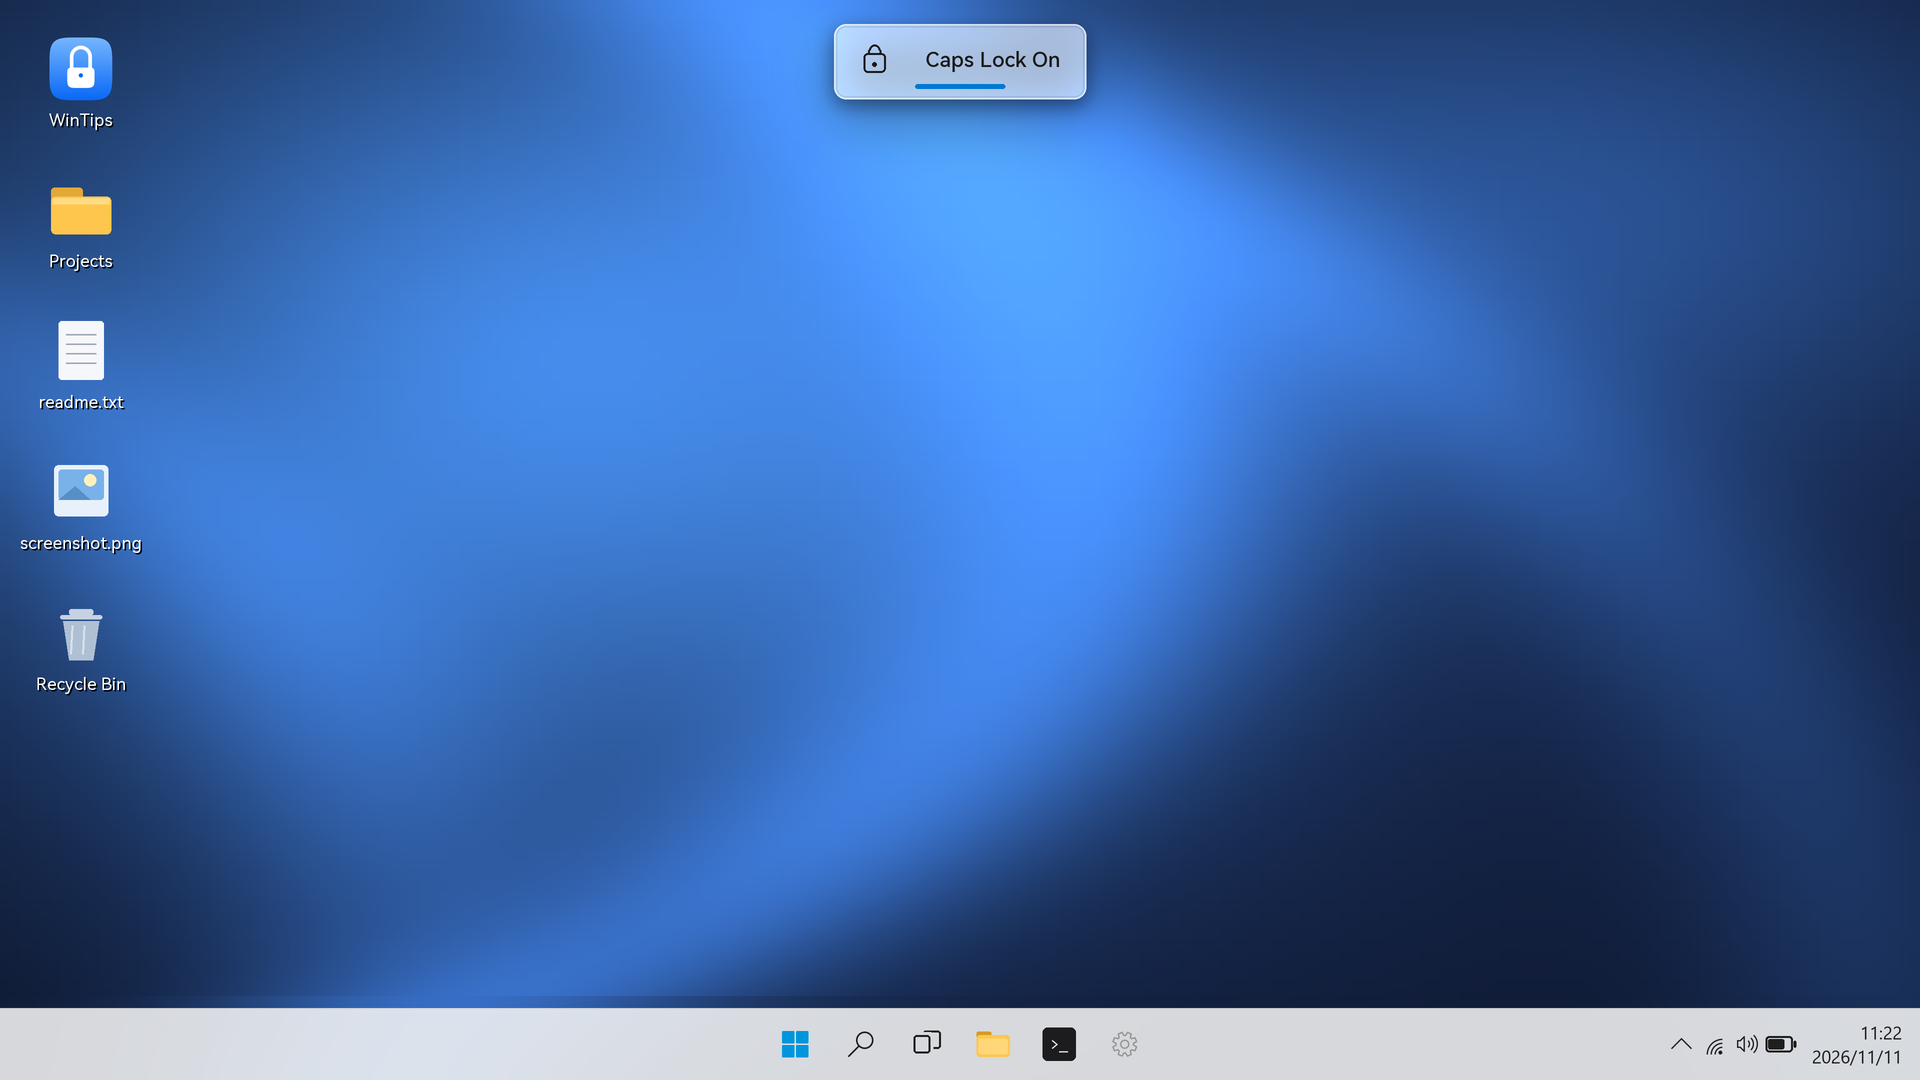
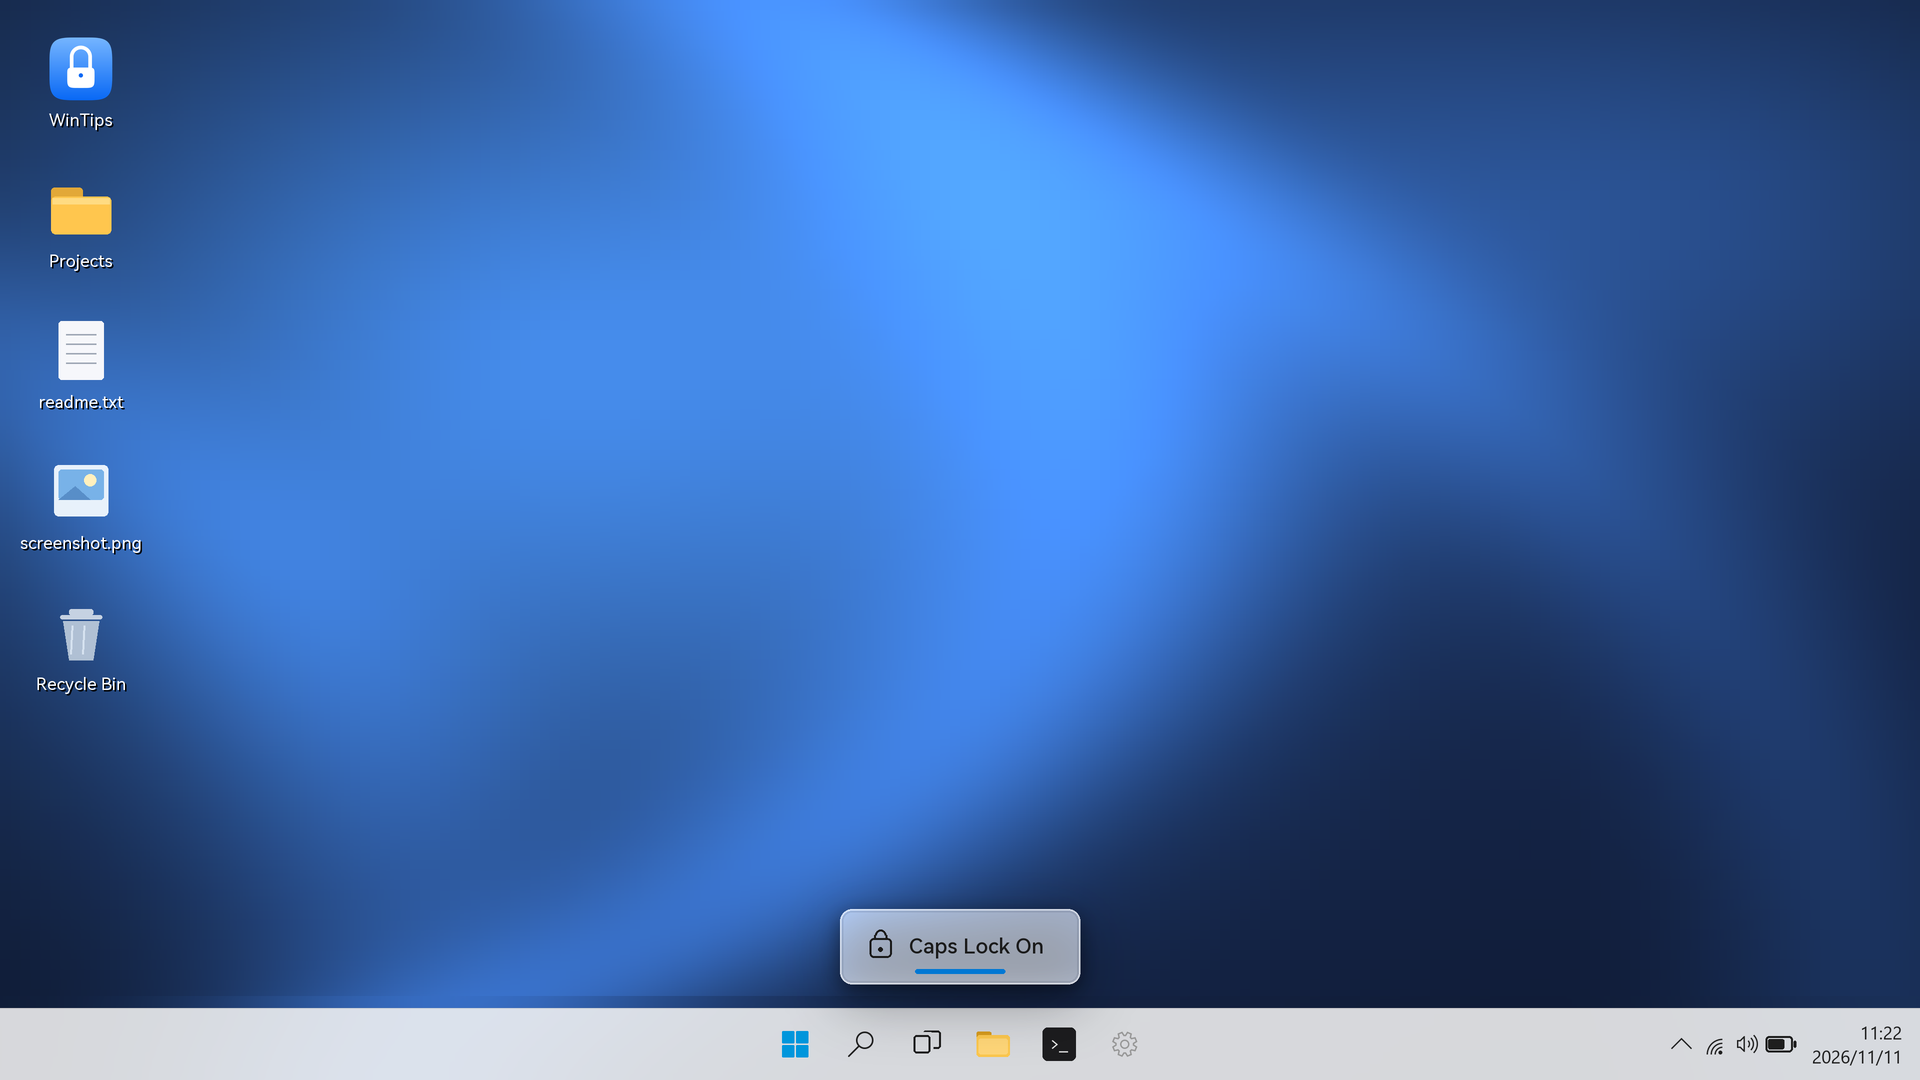
V0.53

Changed region(s): [[0.4062, 0.0, 0.5938, 0.1222], [0.4062, 0.825, 0.5625, 0.9472]]

diff --git a/promo/make_store_shots.py b/promo/make_store_shots.py
@@ -8,7 +8,7 @@
   · 浮窗       UI/OsdWindow.xaml            160x50dip，圆角 8，指示条 60x3，图标 22
   · 设置窗口   UI/SettingsWindow.xaml       800dip 宽，两栏卡片 348 / 18 / *
   · 开关/滑块  Resources/Styles.xaml        开关 40x20、滑块轨道 4、拇指 18
-  · 配色       Core/ThemeHelper.cs          卡片、描边、分隔线、强调色 #0067C0
+  · 配色       Core/ThemeHelper.cs          卡片、描边、分隔线、强调色（取系统强调色 #0078D4）
   · 文案       Core/Localization.cs         运行时解析，随应用一起更新
 
 输出：promo/store/*.png，1920x1080。文件名不带 -en 为中文版。
@@ -19,6 +19,7 @@
     python make_store_shots.py en lock    # 仅英文的锁定键那张
 """
 import io
+import math
 import os
 import re
 import sys
@@ -325,15 +326,36 @@ def check_layer(size_px, color):
     return lay
 
 
-def osd_width(text, fnt, d):
-    tw = d.textlength(text, font=fnt) / P(1)
-    return max(160.0, tw + 78)
+def osd_metrics(text, count, d):
+    """复刻 OsdWindow.UpdateSize() 的宽度与文本位置
+
+    宽度：16 + 图标22 + 18 + 文字 + 12（+徽章），不足 160 时按 160 保底。
+    文本：XAML 是 HorizontalAlignment=Center + Margin=18,0,0,2，居中于
+    ContentGrid（左 16 / 右 12）减去左 margin 后的槽，等效文字中心 (w+22)/2。
+    带计数徽章时代码改用 Left + 算出的 Margin.Left，这里照抄，避免压住徽章。
+    """
+    f_txt = ui(14, "med")
+    f_cnt = ui(12.5, "bld")
+    tw = d.textlength(text, font=f_txt) / P(1)
+    cw = d.textlength("×%d" % count, font=f_cnt) / P(1) if count else 0.0
+    extra = (cw + 22) if count else 0.0
+    w = max(160.0, float(math.ceil(16 + 22 + 18 + tw + 12 + extra)))
+
+    if count:
+        pill = cw + 14
+        badge_start = w - 16 - 8 - pill
+        mid = (22 + badge_start) / 2
+        left = 16 + max(30.0, mid - tw / 2)
+    else:
+        left = 16 + 18 + (w - 16 - 12 - 18 - tw) / 2
+    return w, tw, cw, left + tw / 2, left
 
 
-def draw_osd(img, cx, top, dark, text, kind="lock", on=True, count=None):
+def draw_osd(img, cx, top, dark, text, kind="lock", on=True, count=None, bar=True):
+    """bar=False 用于剪贴板提示：ApplyMode() 里 lockUi 才显示 LockIndicator"""
     f_txt = ui(14, "med")
     probe = ImageDraw.Draw(img)
-    w = osd_width(text, f_txt, probe)
+    w, tw, cw, tx_local, _left = osd_metrics(text, count, probe)
     h = 50.0
     x0, y0 = cx - w / 2, top
     r = 8.0
@@ -373,31 +395,30 @@ def draw_osd(img, cx, top, dark, text, kind="lock", on=True, count=None):
         lay = check_layer(int(ic), col)
     img.paste(lay, (int(ix), int(iy)), lay)
 
-    # 文案：在图标右侧的剩余区域居中
-    area0 = x0 + 16 + 22 + 18
-    area1 = x0 + w - 12 - (26 if count else 0)
-    tx = (area0 + area1) / 2
-    d.text((P(tx), P(y0 + h / 2 - 1)), text, font=f_txt, fill=col, anchor="mm")
+    # 文案：水平按 (w+22)/2 居中；垂直对齐浮窗中线（底部指示条另占 7dip）
+    d.text((P(x0 + tx_local), P(y0 + 25)), text, font=f_txt, fill=col, anchor="mm")
 
     if count:
         f_cnt = ui(12.5, "bld")
-        cw = d.textlength("×%d" % count, font=f_cnt) / P(1) + 14
-        bh = 19.0
+        bw_ = cw + 14
+        bh = 20.0
         bx1 = x0 + w - 12
-        bx0 = bx1 - cw
-        by0 = y0 + (h - bh) / 2
-        d.rounded_rectangle([P(bx0), P(by0), P(bx1), P(by0 + bh)], radius=P(9.5),
+        bx0 = bx1 - bw_
+        # 剪贴板模式的内容区是 16,8,8,8，上下对称，徽章正对中线
+        by0 = y0 + 25 - bh / 2
+        d.rounded_rectangle([P(bx0), P(by0), P(bx1), P(by0 + bh)], radius=P(10),
                             fill=ACCENT + (255,))
         d.text((P((bx0 + bx1) / 2), P(by0 + bh / 2)), "×%d" % count, font=f_cnt,
                fill=(255, 255, 255, 255), anchor="mm")
 
-    # 底部指示条
-    bw = 60.0 if on else 36.0
-    bh2 = 3.0
-    bx = cx - bw / 2
-    by = y0 + h - 7 - bh2
-    d.rounded_rectangle([P(bx), P(by), P(bx + bw), P(by + bh2)], radius=P(1.5),
-                        fill=ACCENT + (255 if on else 51,))
+    # 底部指示条：只有锁定键类提示才有（剪贴板 / 语言提示不画）
+    if bar:
+        bw = 60.0 if on else 36.0
+        bh2 = 3.0
+        bx = cx - bw / 2
+        by = y0 + h - 7 - bh2
+        d.rounded_rectangle([P(bx), P(by), P(bx + bw), P(by + bh2)], radius=P(1.5),
+                            fill=ACCENT + (255 if on else 51,))
     return img
 
 
@@ -985,10 +1006,11 @@ def render_terminal(img, dark):
 
 # ---------------------------------------------------------------- 场景
 SCENES = {
+    # place 默认就是 bottom：AppSettings.TipVertical 的出厂值是 PlacementBottom
     "lock": dict(scale=1.5, dark=False, icons=True,
-                 osd=dict(kind="lock", on=True, text=("KeyCapsLock", "StateOn"), place="top")),
+                 osd=dict(kind="lock", on=True, text=("KeyCapsLock", "StateOn"), place="bottom")),
     "copy": dict(scale=1.5, dark=False, notepad=True,
-                 osd=dict(kind="check", on=True, text=("TipCopied", None), count=3, place="top")),
+                 osd=dict(kind="check", on=True, text=("TipCopied", None), count=3, place="bottom")),
     "dark": dict(scale=1.5, dark=True, terminal=True,
                  osd=dict(kind="lock", on=True, text=("KeyNumLock", "StateOn"), place="bottom")),
     "settings": dict(scale=1.1, dark=False, settings=True),
@@ -1031,7 +1053,10 @@ def render(name, lang):
         spec = cfg["osd"]
         text = osd_text(spec, lang)
         top = 16 if spec["place"] == "top" else VH - TASKBAR_H - 16 - 50
-        img = draw_osd(img, VW / 2, top, dark, text, spec["kind"], spec["on"], spec.get("count"))
+        # 剪贴板 / 语言提示没有底部指示条（ApplyMode: lockUi 才显示）
+        bar = spec["kind"] not in ("check", "globe")
+        img = draw_osd(img, VW / 2, top, dark, text, spec["kind"], spec["on"],
+                       spec.get("count"), bar)
 
     out = os.path.join(OUT_DIR, "%s%s.png" % (
         {"lock": "01-lock", "copy": "02-copy", "dark": "03-dark", "settings": "04-settings"}[name],

diff --git a/README.en.md b/README.en.md
@@ -17,10 +17,6 @@ A keyboard state indicator for Windows
 
 When you press Caps Lock, Num Lock, Scroll Lock or Insert, or copy, paste or cut, WinTips slides an acrylic flyout in from the screen edge and reports the key state or the action, then fades out on its own. The app lives in the tray, has no main window, makes no network requests, and has no third-party dependencies.
 
-| Light theme | Dark theme |
-| :---: | :---: |
-| <img src="promo/osd-light-en.png" width="350" alt="Caps Lock flyout in the light theme"> | <img src="promo/osd-dark-en.png" width="350" alt="Caps Lock flyout in the dark theme"> |
-
 ## Features
 
 | Area | Description |

diff --git a/README.md b/README.md
@@ -17,10 +17,6 @@ Windows 键盘状态提示工具
 
 按下 Caps Lock、Num Lock、Scroll Lock、Insert，或执行复制、粘贴、剪切时，WinTips 在屏幕边缘滑出一个亚克力质感的浮窗，报告当前按键状态或操作，随后自动淡出。程序常驻托盘，无主窗口、不联网、无第三方依赖。
 
-| 浅色主题 | 深色主题 |
-| :---: | :---: |
-| <img src="promo/osd-light.png" width="350" alt="浅色主题下的 Caps Lock 提示"> | <img src="promo/osd-dark.png" width="350" alt="深色主题下的 Caps Lock 提示"> |
-
 ## 功能
 
 | 类别 | 说明 |
